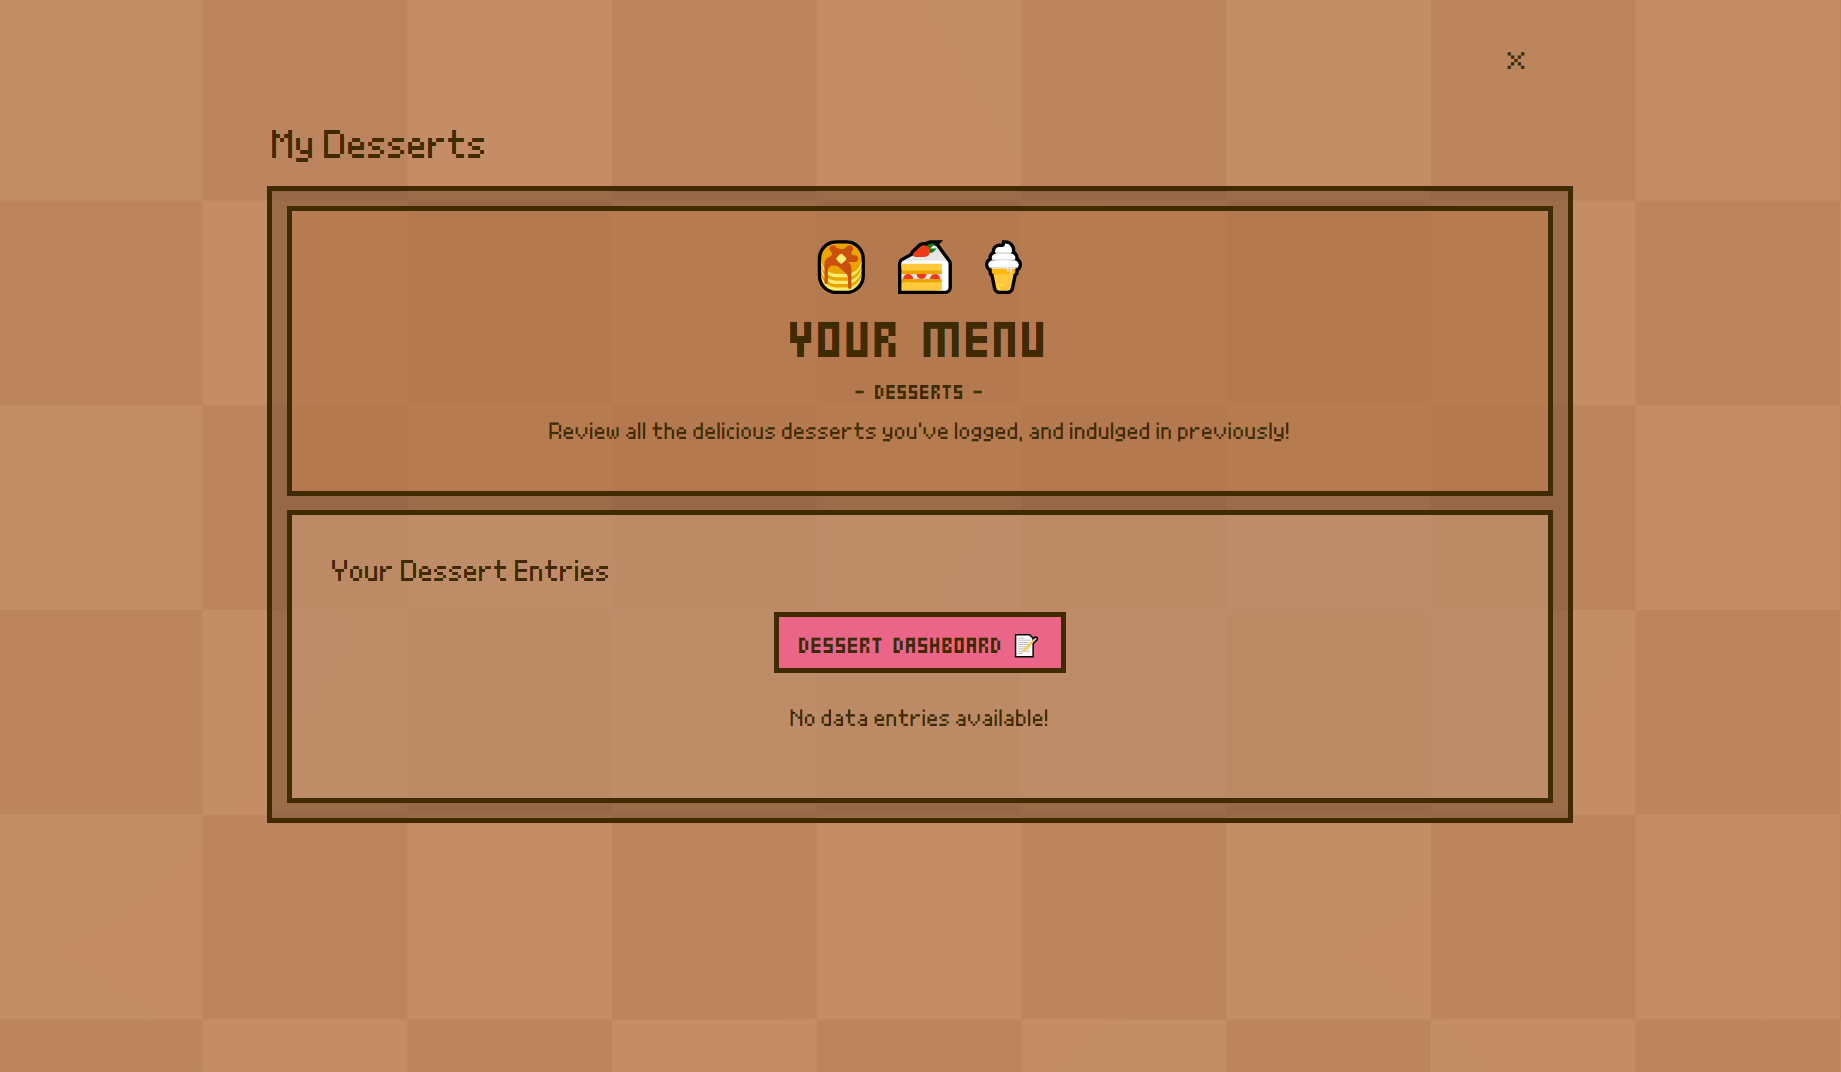
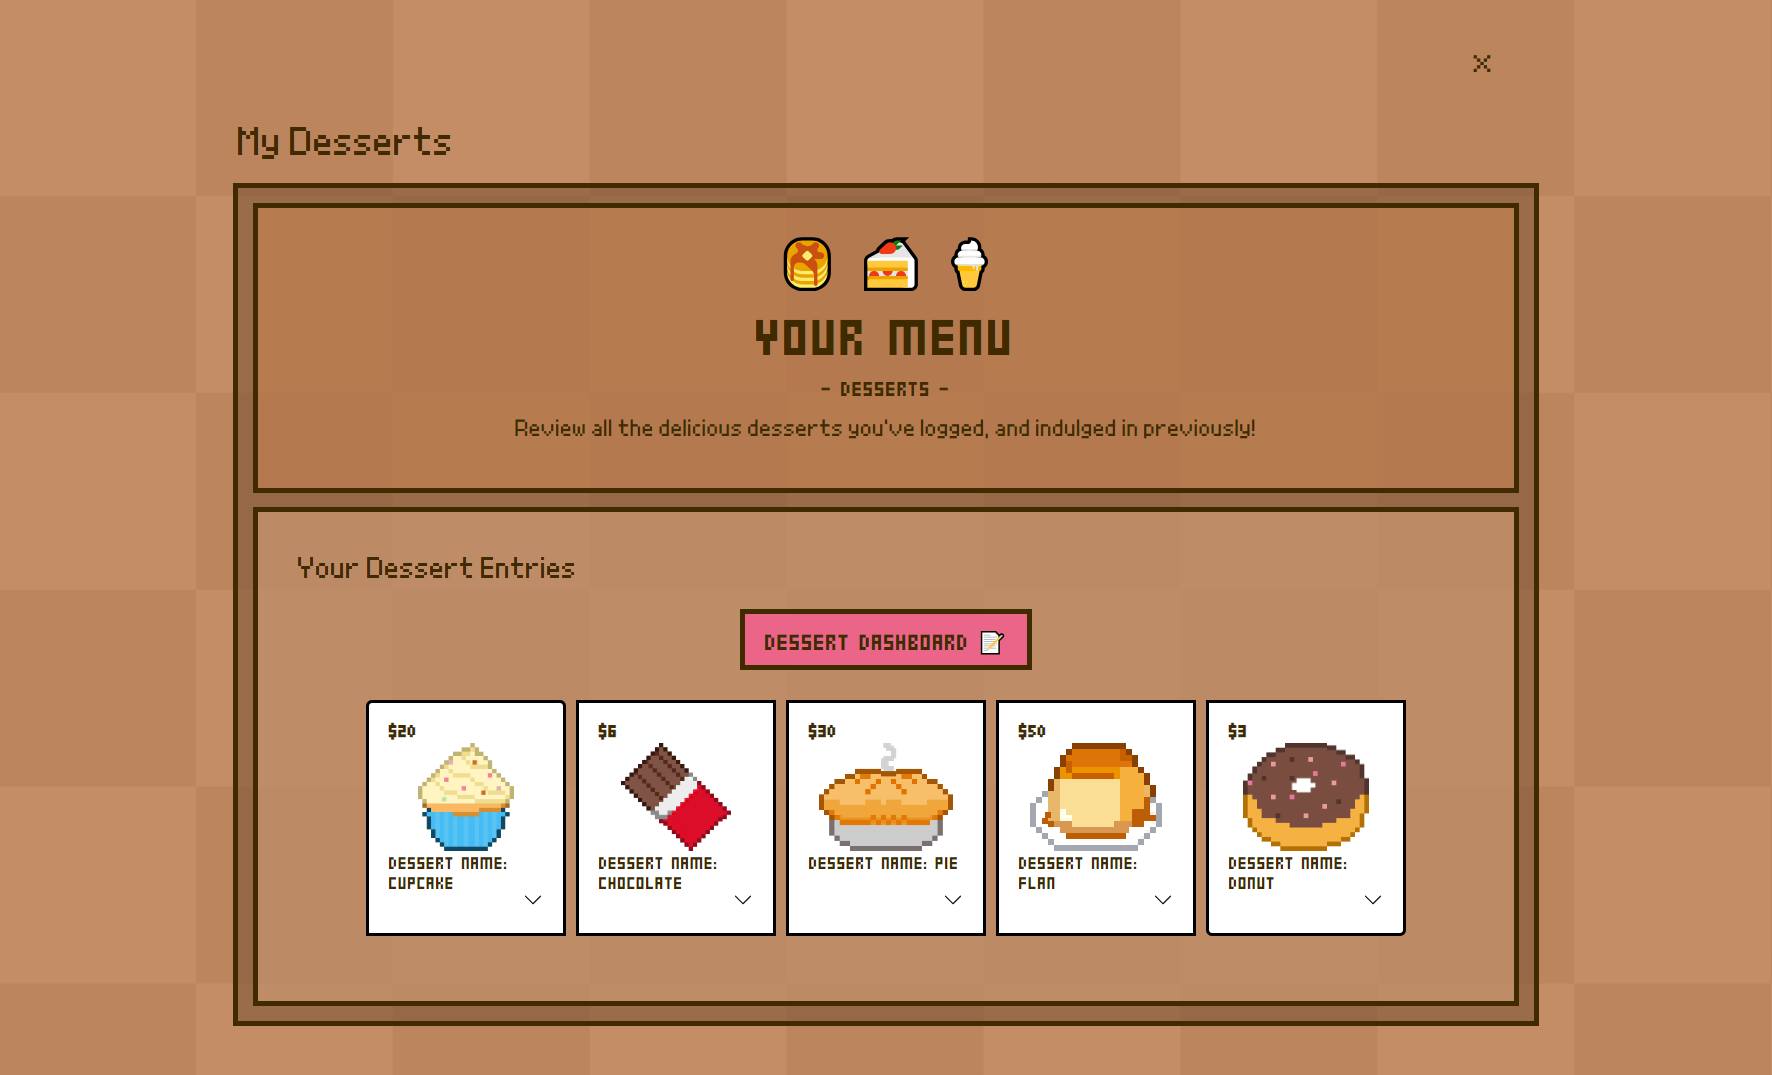
Minor Styling Refinements

Changed region(s): [[0.1242, 0.1231, 0.8691, 0.9543], [0.807, 0.0308, 0.838, 0.0616]]

diff --git a/public/scss/layout.scss b/public/scss/layout.scss
@@ -313,7 +313,7 @@ body{
         display: flex;
         flex-wrap: wrap; 
         align-items: flex-start;
-        justify-content: center;
+        justify-content: flex-start;
         gap: 10px;
         padding: 30px;
     }
@@ -322,6 +322,7 @@ body{
         display: flex;
         flex-direction: column;
         width:200px;
+        min-height:230px;
         border: 0.3vh solid black;
         margin-bottom: 15px;
         border-radius: none;
@@ -334,7 +335,7 @@ body{
 
         // Cascade Accordion Overview elements downwards 
         .accordion-button {
-            min-height: 200px;
+            min-height: 230px;
             background-color: #fff; 
             color: $dark-brown;
             display: flex; 

diff --git a/public/scripts/home.js b/public/scripts/home.js
@@ -15,7 +15,7 @@ export default class extends abstractView{
                 <img src="${logo}" alt="Logo" id="logo">
                 <body>
                     <p> A web application to track your sweet palate! Begin by clicking ‘+’ 
-                    to add a new Dessert Entry. Then, view them in My Desserts! </p>
+                    to add a new Dessert Entry. Then, view them in My Desserts!  </p>
                 </body>
             </div>
         </div>

diff --git a/README.md b/README.md
@@ -10,7 +10,7 @@ This dessert-tracking application is designed to provide users with a platform t
 
 3.	**My Desserts:** This page displays a list of all logged dessert entries in a stylised 'dessert menu' format. Users can add more to the list, or remove entries!
 
-4.  **Overview:** The overview dashboard presents users with a summarised view of their dessert consumption, with insights such as total desserts tracked, average spending, etc.
+4.  **Overview/ Dessert Dashboard:** The overview dashboard presents users with a summarised view of their dessert consumption, with insights such as total desserts tracked, average spending, etc.
 
 # 2. Configuration & Deployment 
 ### Prerequisites
@@ -96,7 +96,7 @@ For how my desserts would be displayed, I initially wanted to have a 'card' - an
 
 I also adjusted the layout from two columns to two rows. This change optimizes screen space as more entries are added and better accommodates the expansion of accordion elements.
 
-<img src="public/src/readmeimages/mydessertswireframe.png" width="330"><img src="public/src/readmeimages/mydessertsprototype.png" width="400" >
+<img src="public/src/readmeimages/mydessertswireframe.png" width="330"><img src="public/src/readmeimages/mydessertsprototype.png" width="390">
 
 ### 2. Desserts Overview Page 
 Initially, I wanted to display the aggregated data statically, however I wanted to add more interactivity to my application, so I opted to include an interactive carousel of aggregated data to make it more engaging!
